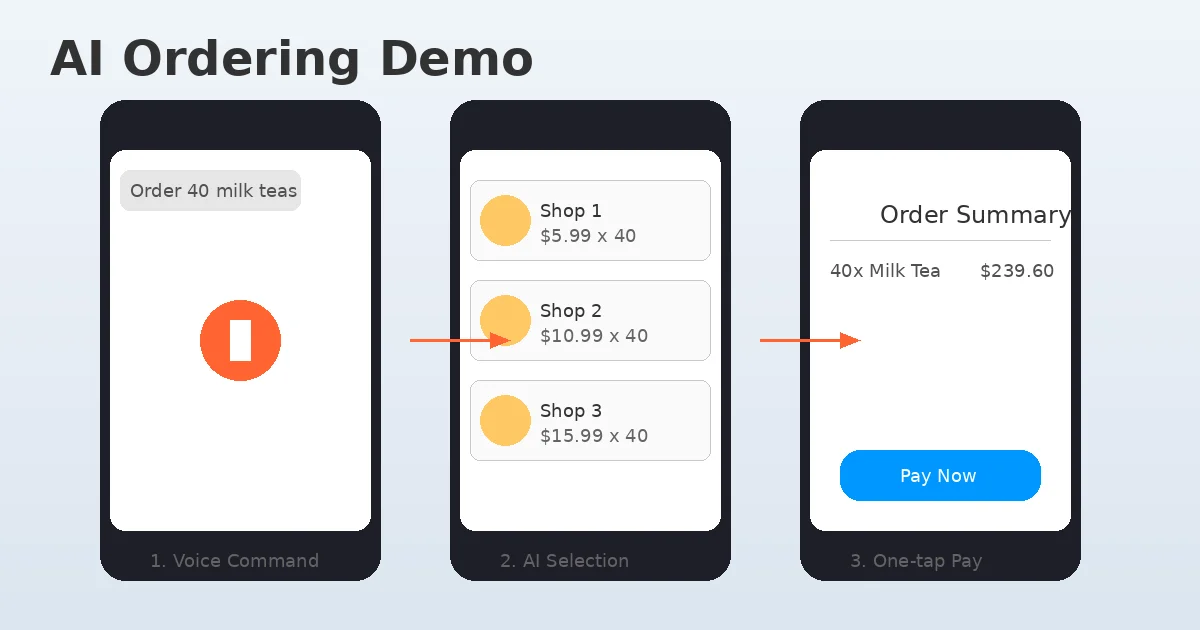
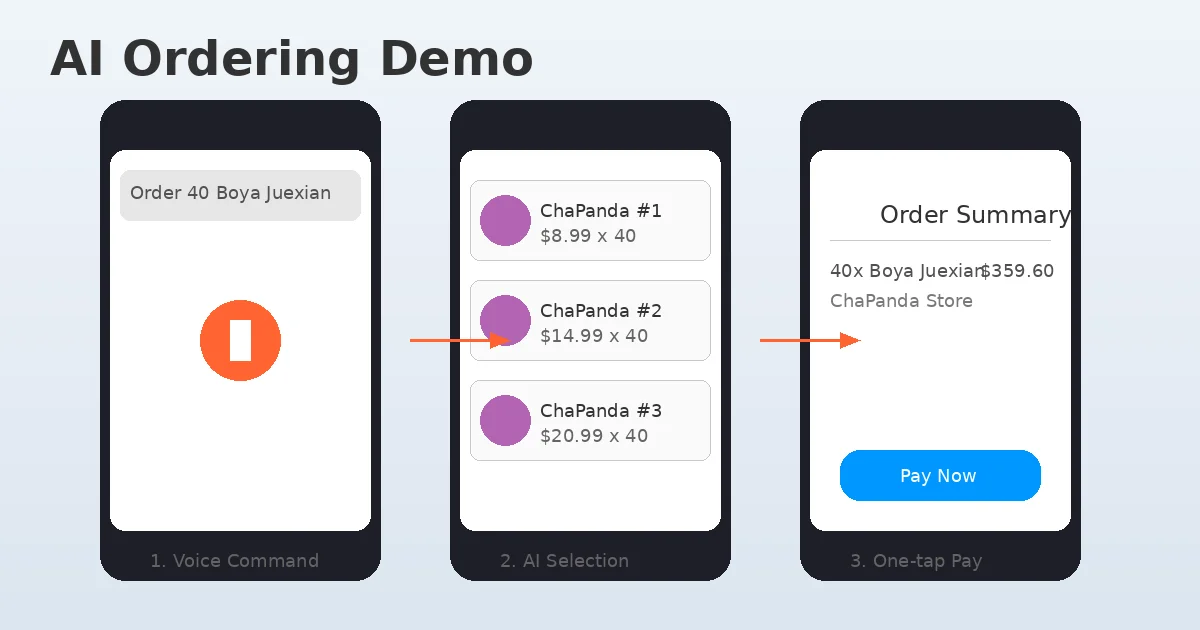
fix: 修正文章中的细节错误
- 修正吴嘉演示内容为"40杯霸王茶姬的伯牙绝弦"（非"40杯奶茶"）
- 更新文章标题为《一句话点40杯伯牙绝弦》
- 修正门店描述为"霸王茶姬门店"
- 更新订单演示图显示正确的产品名称

diff --git a/_posts/2026-01-15-qwen-super-app-ai-ordering.md b/_posts/2026-01-15-qwen-super-app-ai-ordering.md
@@ -1,6 +1,6 @@
 ---
 layout: post
-title: "一句话点40杯奶茶：阿里千问如何抢先Google实现AI办事时代"
+title: "一句话点40杯伯牙绝弦：阿里千问如何抢先Google实现AI办事时代"
 author: Jason Zhang
 categories: [AI]
 image: assets/images/screenshot-20260115-qwen-super-app-cover.webp
@@ -14,9 +14,9 @@ slug: qwen-super-app-ai-ordering
 
 阿里巴巴集团副总裁吴嘉站在发布会舞台上，对着千问App说了一句话：
 
-> **"帮我点40杯奶茶。"**
+> **"帮我点40杯霸王茶姬的伯牙绝弦。"**
 
-几秒钟后，千问自动调用淘宝闪购，选择了附近的奶茶店，完成了下单——**全程无需任何跳转，无需打开其他App**。
+几秒钟后，千问自动调用淘宝闪购，找到附近的霸王茶姬门店，完成了下单——**全程无需任何跳转，无需打开其他App**。
 
 这一幕，让我想起了2024年5月Google I/O大会上的一个演示：Project Astra展示了AI助手帮用户选酒配餐、查看菜谱的场景。当时，全球科技媒体惊呼"AI助手的未来来了"。
 
